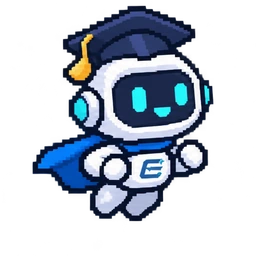
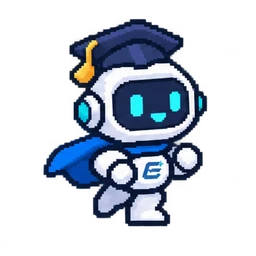
Expand mascot loops and add static mascot assets

Changed region(s): [[0.125, 0.0, 0.8438, 0.9062]]

diff --git a/docs/architecture/frontend-base.md b/docs/architecture/frontend-base.md
@@ -39,10 +39,11 @@ import { BookOpen } from 'lucide-react';
 
 ## Linh vật và trạng thái chờ
 
-- `frontend/public/brand/mascot/running/` có 4 khung chạy cho màn hình tải. `app/loading.tsx` hiển thị linh vật khi Next.js đang chờ route. Các route đã sẵn sàng hiển thị ngay.
-- `frontend/public/brand/mascot/thinking/` có 4 khung suy nghĩ. Trong giao diện chat, render `<AgentThinking active={isAwaitingReply} />` từ `@/components/mascot/agent-thinking`. Đặt cờ khi gửi yêu cầu và tắt khi nhận phần phản hồi đầu tiên, yêu cầu lỗi hoặc bị hủy.
-- Mỗi thư mục có 4 tệp `frame-*.webp` trong suốt 256 × 256 và một `loop.webp` chứa cùng các khung theo thứ tự. Mỗi khung chạy kéo dài 120 ms, mỗi khung suy nghĩ kéo dài 800 ms. Component dùng khung đầu khi thiết bị bật `prefers-reduced-motion`.
-- Kiểm thử bằng route có nội dung tải bất đồng bộ và trạng thái chat mô phỏng. Kiểm tra nhãn chờ, 4 khung của mỗi vòng lặp và ảnh tĩnh ở chế độ giảm chuyển động.
+- `frontend/public/brand/mascot/running/` có 8 khung chạy cho màn hình tải. `app/loading.tsx` hiển thị linh vật khi Next.js đang chờ route. Các route đã sẵn sàng hiển thị ngay.
+- `frontend/public/brand/mascot/thinking/` có 8 khung suy nghĩ. Trong giao diện chat, render `<AgentThinking active={isAwaitingReply} />` từ `@/components/mascot/agent-thinking`. Đặt cờ khi gửi yêu cầu và tắt khi nhận phần phản hồi đầu tiên, yêu cầu lỗi hoặc bị hủy.
+- Mỗi thư mục hoạt ảnh có 8 tệp `frame-*.webp` trong suốt 256 × 256 và một `loop.webp` chứa cùng các khung theo thứ tự. Mỗi khung chạy kéo dài 75 ms, mỗi khung suy nghĩ kéo dài 400 ms. Component dùng khung đầu khi thiết bị bật `prefers-reduced-motion`.
+- `frontend/public/brand/mascot/static/` có 8 ảnh WebP trong suốt 384 × 384. Bộ góc nhìn gồm `front.webp`, `left.webp`, `back.webp`, `right.webp`. Bộ tư thế gồm `welcome.webp`, `working.webp`, `success.webp`, `studying.webp`. Dùng đường dẫn `/brand/mascot/static/<tên-tệp>` với `next/image`.
+- Kiểm thử bằng route có nội dung tải bất đồng bộ và trạng thái chat mô phỏng. Kiểm tra nhãn chờ, 8 khung của mỗi vòng lặp và ảnh tĩnh ở chế độ giảm chuyển động.
 
 
 ## Quyết định và cách kiểm chứng
